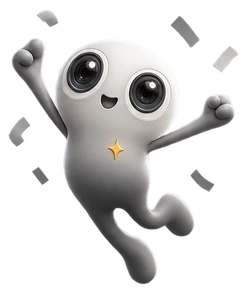
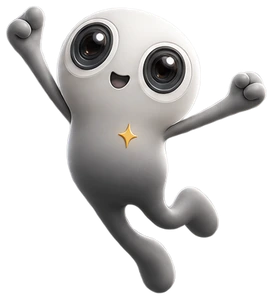
Mascot: gray 3D figure kept, one prop per pose (one signpost, no confetti, no static megaphone lines); on the home page beside the hero quote, on the Usher hub, by the new-plan heading and next to the last button

diff --git a/app/ui/mascot.tsx b/app/ui/mascot.tsx
@@ -2,8 +2,8 @@
 // Usher's mascot: a soft vinyl-toy creature with camera-lens eyes and an amber sparkle on its chest
 // (the agent's mark), rendered in 3D in six poses. Motion is layered on top in CSS: the figure
 // sways, jumps or breathes; the chest sparkle glows like a heartbeat; a glossy sheen sweeps across
-// it; a contact shadow grounds it; and each pose has its own light accents, amber for Usher and
-// blue for a person (the app's color key). Motion stops for people who ask for less motion.
+// it; a contact shadow grounds it; and a few poses have one small amber accent (Usher's color).
+// Props are kept to one per pose. Motion stops for people who ask for less motion.
 
 import type { CSSProperties } from 'react';
 
@@ -12,12 +12,12 @@ export type Pose = 'options' | 'working' | 'done' | 'relax' | 'headsup' | 'ask';
 type Spot = [number, number];
 /** Measured on each render (percent of its box): picture size, chest sparkle, where the feet are. */
 const ART: Record<Pose, { w: number; h: number; star: Spot; feet: Spot; feetW: number }> = {
-  options: { w: 341, h: 300, star: [56, 51], feet: [50, 96], feetW: 46 },
-  working: { w: 183, h: 300, star: [46, 45], feet: [45, 96.5], feetW: 52 },
-  done: { w: 249, h: 300, star: [46, 50], feet: [52, 99], feetW: 34 },
-  relax: { w: 268, h: 300, star: [54, 42], feet: [50, 95], feetW: 70 },
-  headsup: { w: 286, h: 300, star: [48, 48], feet: [36, 96], feetW: 42 },
-  ask: { w: 289, h: 300, star: [49, 43], feet: [44, 95.5], feetW: 38 },
+  options: { w: 272, h: 300, star: [41, 46.5], feet: [46, 97], feetW: 80 },
+  working: { w: 192, h: 300, star: [41, 41.5], feet: [44.5, 97], feetW: 56 },
+  done: { w: 273, h: 300, star: [46.5, 45], feet: [50, 99.5], feetW: 36 },
+  relax: { w: 283, h: 300, star: [54, 39.5], feet: [46, 97], feetW: 78 },
+  headsup: { w: 267, h: 300, star: [55, 44], feet: [40.5, 97], feetW: 50 },
+  ask: { w: 296, h: 300, star: [49.5, 42], feet: [44, 97], feetW: 44 },
 };
 
 const at = ([x, y]: Spot, extra?: CSSProperties): CSSProperties => ({ left: `${x}%`, top: `${y}%`, ...extra });
@@ -25,18 +25,14 @@ const at = ([x, y]: Spot, extra?: CSSProperties): CSSProperties => ({ left: `${x
 /** Light accents per pose, placed on the render. */
 function Accents({ pose }: { pose: Pose }) {
   switch (pose) {
-    case 'options': // the signposts light up in turn: Usher's suggestion (amber), then the other way (blue)
-      return <><i className="ms-lamp ms-amber" style={at([15.5, 55])} /><i className="ms-lamp ms-blue ms-late" style={at([84.5, 55])} /></>;
+    case 'options': // the one signpost glows: Usher's suggested way
+      return <i className="ms-lamp ms-amber" style={at([80, 57])} />;
     case 'working': // little sparkles off the checklist as it ticks
-      return <>{[[80, 30], [90, 42], [70, 22]].map(([x, y], i) => <i key={i} className="ms-pop" style={at([x, y], { animationDelay: `${i * 0.45}s` })} />)}</>;
-    case 'done': // sparks burst out around the jump
-      return <>{[[12, 30], [86, 24], [8, 60], [92, 56], [30, 6], [70, 4]].map(([x, y], i) => (
-        <i key={i} className={`ms-spark${i % 2 ? ' ms-blue' : ''}`} style={at([x, y], { animationDelay: `${(i % 3) * 0.12}s` })} />
-      ))}</>;
+      return <>{[[78, 34], [86, 46], [70, 28]].map(([x, y], i) => <i key={i} className="ms-pop" style={at([x, y], { animationDelay: `${i * 0.45}s` })} />)}</>;
     case 'headsup': // signal arcs go out of the megaphone
-      return <>{[0, 1, 2].map(i => <i key={i} className="ms-arc" style={at([88, 27], { animationDelay: `${i * 0.42}s` })} />)}</>;
+      return <>{[0, 1, 2].map(i => <i key={i} className="ms-arc" style={at([99, 24], { animationDelay: `${i * 0.42}s` })} />)}</>;
     case 'ask': // typing dots in the speech bubble
-      return <>{[75.5, 82, 88.5].map((x, i) => <i key={x} className="ms-type" style={at([x, 16.5], { animationDelay: `${i * 0.16}s` })} />)}</>;
+      return <>{[77, 83.5, 90].map((x, i) => <i key={x} className="ms-type" style={at([x, 13.5], { animationDelay: `${i * 0.16}s` })} />)}</>;
     default:
       return null;
   }

diff --git a/app/page.tsx b/app/page.tsx
@@ -12,6 +12,7 @@ import { useEffect, useRef, type MouseEvent } from 'react';
 import { Bell } from './hl/icons';
 import { PHOTOS } from './ui/photos';
 import { PlanDemo } from './sitedemo';
+import { Mascot } from './ui/mascot';
 
 // ---------------------------------------------------------------- the calendar (1 pm to 7 pm, four venues)
 
@@ -321,7 +322,7 @@ export default function Site() {
             <span className="s-wordmark" data-split>Usher</span>
             <span className="s-h1-sub" data-split>{'The best film festival\nchange management agent.'}</span>
           </h1>
-          <p className="s-lead" data-hero-fade><q className="s-quote">Don&apos;t worry. I&apos;ll take care of everything.</q> That&apos;s what Usher says when a print arrives late, a guest misses their flight or snow slows the city down. It tracks your schedule and tells everyone affected by a change what to do next.</p>
+          <p className="s-lead" data-hero-fade><span className="s-says"><Mascot pose="ask" className="s-mascot" /><q className="s-quote">Don&apos;t worry. I&apos;ll take care of everything.</q></span> That&apos;s what Usher says when a print arrives late, a guest misses their flight or snow slows the city down. It tracks your schedule and tells everyone affected by a change what to do next.</p>
           <div className="s-ctas" data-hero-fade>
             <a className="btn" href="#story" onClick={go('#story')}>See how it works</a>
           </div>
@@ -449,7 +450,7 @@ export default function Site() {
                 {[50, 150, 250].map(y => <path key={`i${y}`} data-feed="in" d={`M0 ${y} C 60 ${y}, 60 150, 100 150`} />)}
                 {[38, 113, 188, 263].map(y => <path key={`o${y}`} data-feed="out" className="out" d={`M100 150 C 140 150, 140 ${y}, 200 ${y}`} />)}
               </svg>
-              <div className="s-flow-node" data-node><b>Usher</b><small>checks 559 events, 1,107 plans, 595 shifts</small></div>
+              <div className="s-flow-node" data-node><Mascot pose="headsup" className="s-node-mascot" /><b>Usher</b><small>checks 559 events, 1,107 plans, 595 shifts</small></div>
             </div>
             <div className="s-flow-col">
               {[['3 screenings move to 3:15 pm', 'Low Sun, Soft Animals, Night Swimmers'], ['21 attendees get their new time', 'Seats held, leave 15 min early'], ['Ravi Castellanos takes Dana’s seat', 'She joins the Q&A by video'], ['3 door teams briefed', 'Hold doors until 3:20 pm']].map(([b2, sm]) => (
@@ -463,10 +464,13 @@ export default function Site() {
 
       {/* 3. the new plan, shown as the product itself */}
       <section className="s-plan" id="plan" data-section>
-        <div className="s-plan-copy" data-reveal>
-          <p className="s-mono">The new plan</p>
-          <h2 className="s-h2">It suggests a new plan, and you decide.</h2>
-          <p className="s-lead">Usher shows every change on the calendar before anything is sent. One approval makes it the plan, and everyone affected hears straight away.</p>
+        <div className="s-plan-head">
+          <div className="s-plan-copy" data-reveal>
+            <p className="s-mono">The new plan</p>
+            <h2 className="s-h2">It suggests a new plan, and you decide.</h2>
+            <p className="s-lead">Usher shows every change on the calendar before anything is sent. One approval makes it the plan, and everyone affected hears straight away.</p>
+          </div>
+          <span className="s-plan-mascot" data-reveal><Mascot pose="options" /></span>
         </div>
         <PlanDemo />
       </section>
@@ -477,6 +481,7 @@ export default function Site() {
         <h2 className="s-h1" data-split-scroll>See how Usher handles a snow day at Sundance in Boulder.</h2>
         <div className="s-roles" data-reveal>
           <a className="btn primary" href="/onboarding">Try the live demo</a>
+          <Mascot pose="done" className="s-cta-mascot" />
         </div>
       </footer>
       </div></div>

diff --git a/app/globals.css b/app/globals.css
@@ -1277,7 +1277,7 @@ button.primary.agent-btn { background: var(--agent); border-color: var(--agent);
 @media (max-width: 760px) { .rec-foot { position: static; margin: 0; padding: 6px 0 0; border-top: 0; } }
 
 /* ---------------------------------------------------------------- the mascot
-   3D renders (public/mascot) with motion layered on in CSS. Amber light = Usher, blue = a person. */
+   3D renders (public/mascot) with motion layered on in CSS. Its small accents are amber, Usher's color. */
 .mascot { --ms-ground: rgba(0, 0, 0, .55); position: relative; display: inline-block; height: 64px; flex: none; line-height: 0;
   pointer-events: none; user-select: none; isolation: isolate; animation: ms-in .6s cubic-bezier(.2, .9, .3, 1.25) both; }
 .shell.light .mascot, .at.light .mascot, .me.light .mascot { --ms-ground: rgba(28, 21, 19, .22); }
@@ -1306,12 +1306,9 @@ button.primary.agent-btn { background: var(--agent); border-color: var(--agent);
 /* Light accents. */
 .ms-lamp { width: 26%; aspect-ratio: 1; transform: translate(-50%, -50%); border-radius: 50%; opacity: 0; mix-blend-mode: screen; animation: ms-lamp 4.4s ease-in-out infinite; }
 .ms-lamp.ms-amber { background: radial-gradient(closest-side, rgba(240, 170, 70, .75), transparent); }
-.ms-lamp.ms-blue { background: radial-gradient(closest-side, rgba(130, 170, 245, .8), transparent); animation-delay: 2.2s; }
 .shell.light .ms-lamp, .at.light .ms-lamp { mix-blend-mode: multiply; }
-.ms-pop, .ms-spark { width: 6px; height: 6px; margin: -3px 0 0 -3px; border-radius: 50%; background: var(--agent); opacity: 0; }
+.ms-pop { width: 6px; height: 6px; margin: -3px 0 0 -3px; border-radius: 50%; background: var(--agent); opacity: 0; }
 .ms-pop { animation: ms-pop 1.35s ease-out infinite; }
-.ms-spark { animation: ms-spark 1.25s ease-out infinite; }
-.ms-spark.ms-blue { background: var(--human); }
 .ms-arc { width: 14%; aspect-ratio: 1 / 1.8; transform: translate(-50%, -50%); border: 2px solid transparent; border-right-color: var(--agent); border-radius: 50%; opacity: 0; animation: ms-arc 1.4s ease-out infinite; }
 .ms-type { width: 7px; height: 7px; margin: -3.5px 0 0 -3.5px; border-radius: 50%; background: var(--agent); animation: ms-type 1.1s ease-in-out infinite; }
 .ms-warm { left: 50%; top: 52%; width: 92%; aspect-ratio: 1; transform: translate(-50%, -50%); border-radius: 50%; z-index: -2;
@@ -1329,7 +1326,6 @@ button.primary.agent-btn { background: var(--agent); border-color: var(--agent);
 @keyframes ms-hello { 0%, 100% { transform: rotate(0) translateY(0); } 20% { transform: rotate(-2deg) translateY(-1%); } 40% { transform: rotate(1.2deg); } 60% { transform: rotate(-1.4deg) translateY(-.6%); } 80% { transform: rotate(.4deg); } }
 @keyframes ms-lamp { 0%, 8%, 50%, 100% { opacity: 0; transform: translate(-50%, -50%) scale(.7); } 20%, 38% { opacity: 1; transform: translate(-50%, -50%) scale(1); } }
 @keyframes ms-pop { 0% { opacity: 0; transform: translate(0, 0) scale(.4); } 30% { opacity: 1; } 100% { opacity: 0; transform: translate(6px, -12px) scale(1); } }
-@keyframes ms-spark { 0%, 15% { opacity: 0; transform: scale(.2); } 40% { opacity: 1; transform: scale(1.3); } 100% { opacity: 0; transform: scale(.4); } }
 @keyframes ms-arc { 0% { opacity: 0; transform: translate(-80%, -50%) scale(.5); } 30% { opacity: 1; } 100% { opacity: 0; transform: translate(10%, -50%) scale(1.35); } }
 @keyframes ms-type { 0%, 60%, 100% { transform: translateY(0); opacity: .45; } 30% { transform: translateY(-3px); opacity: 1; } }
 @keyframes ms-warm { 0%, 100% { opacity: .7; transform: translate(-50%, -50%) scale(.94); } 50% { opacity: 1; transform: translate(-50%, -50%) scale(1.04); } }

diff --git a/app/site.css b/app/site.css
@@ -932,3 +932,26 @@
 .s-flow-feed, .s-flow-out { backdrop-filter: none; -webkit-backdrop-filter: none; background: rgba(26, 17, 14, .94); }
 #smooth-content { will-change: transform; }
 @media (min-width: 761px) { .pd-phone { bottom: auto; top: calc(100% + 76px); } .s-plan { padding-bottom: 230px; } }
+
+/* ---------------------------------------------------------------- the mascot on the home page
+   One small figure per scene: it says the hero quote, calls out from the Usher hub, weighs the
+   new plan and jumps beside the last button. Never inside a button or an icon. */
+.s-says { display: flex; align-items: flex-end; gap: 14px; margin-bottom: 10px; }
+.s-says .s-quote { margin-bottom: 4px; }
+.s-says .s-mascot { height: 92px; }
+.s-node-mascot.mascot { position: absolute; left: 50%; bottom: calc(100% - 14px); height: 92px; translate: -50% 0; }
+.s-plan-head { display: flex; align-items: flex-end; gap: clamp(24px, 4vw, 64px); }
+.s-plan-mascot { flex: none; line-height: 0; }
+.s-plan-mascot .mascot { height: clamp(110px, 12vw, 170px); }
+.s-roles { align-items: center; }
+.s-cta-mascot.mascot { height: 104px; margin-left: 10px; }
+@media (max-width: 900px) {
+  .s-node-mascot.mascot { height: 70px; left: calc(100% + 10px); bottom: 4px; translate: 0 0; }
+}
+@media (max-width: 760px) {
+  .s-says { gap: 10px; }
+  .s-says .s-mascot { height: 68px; }
+  .s-plan-head { gap: 12px; }
+  .s-plan-mascot .mascot { height: 84px; }
+  .s-cta-mascot.mascot { height: 84px; }
+}
